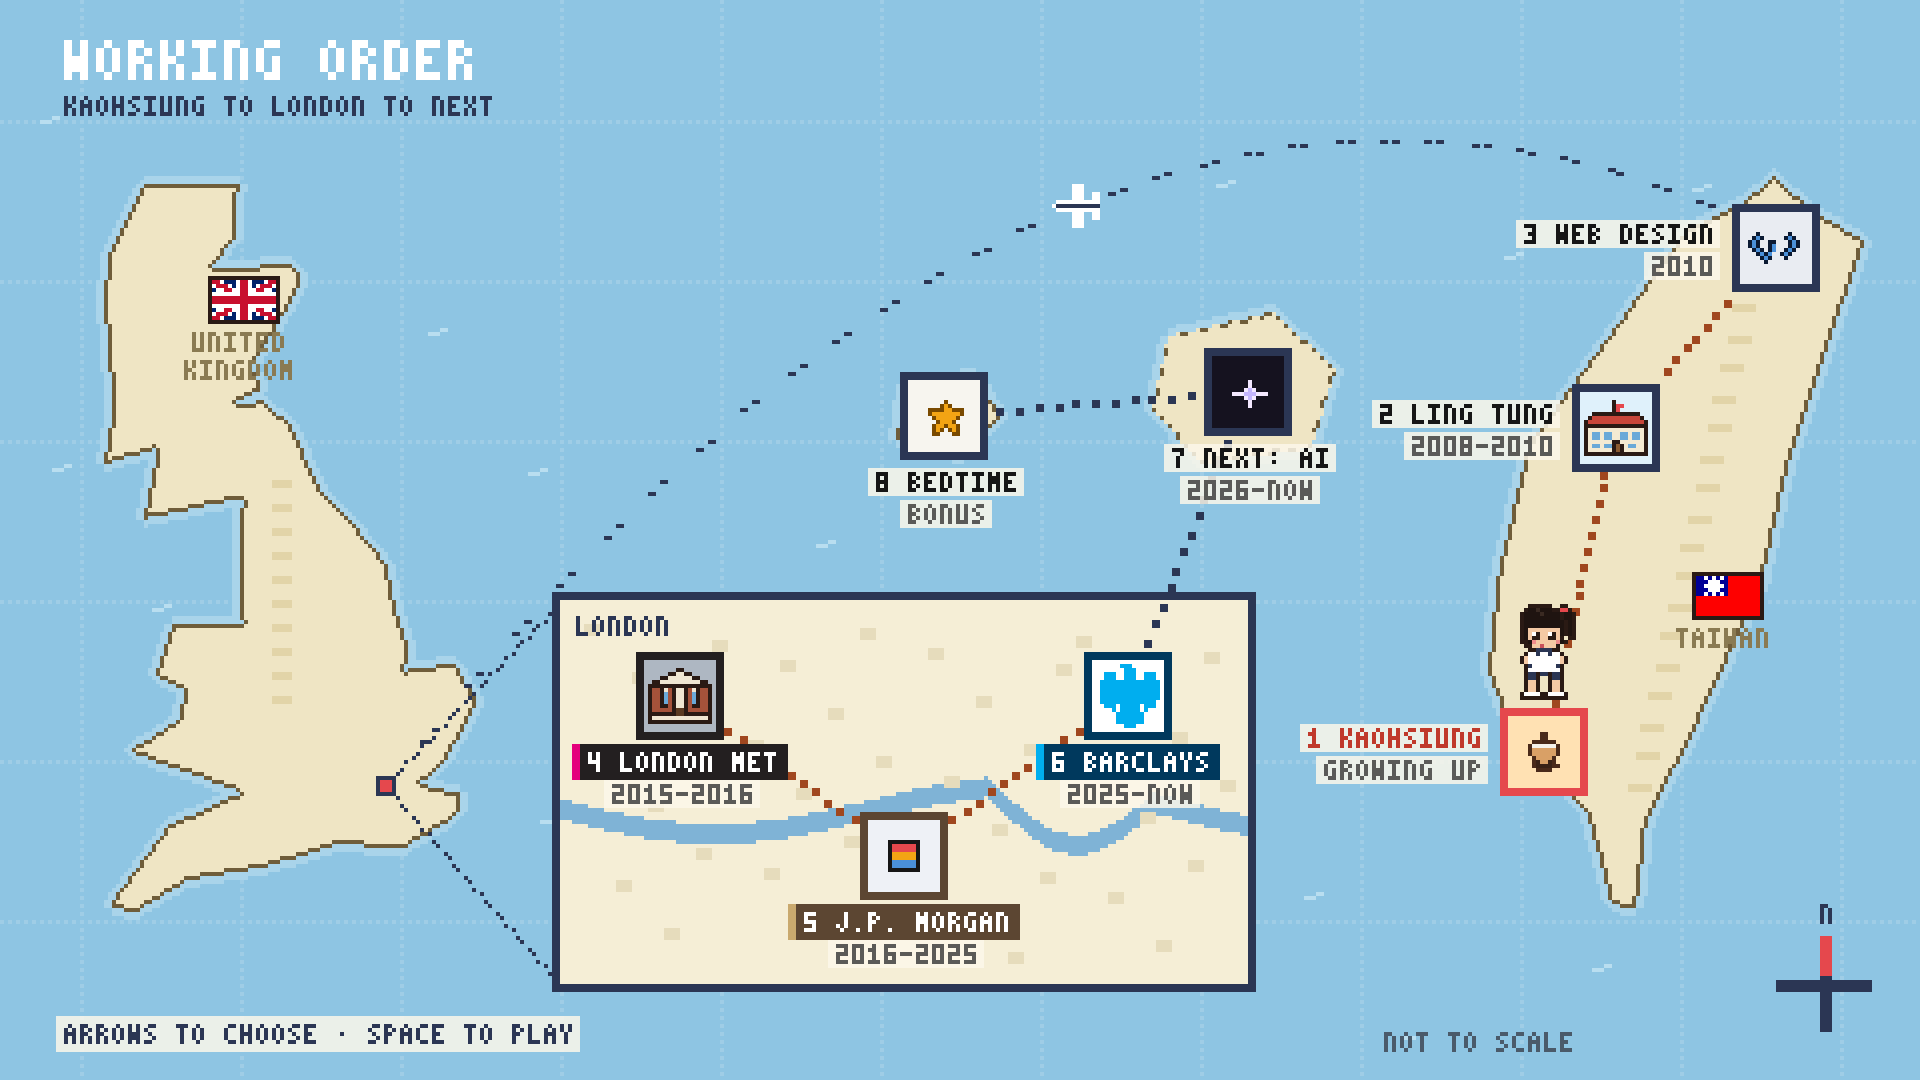
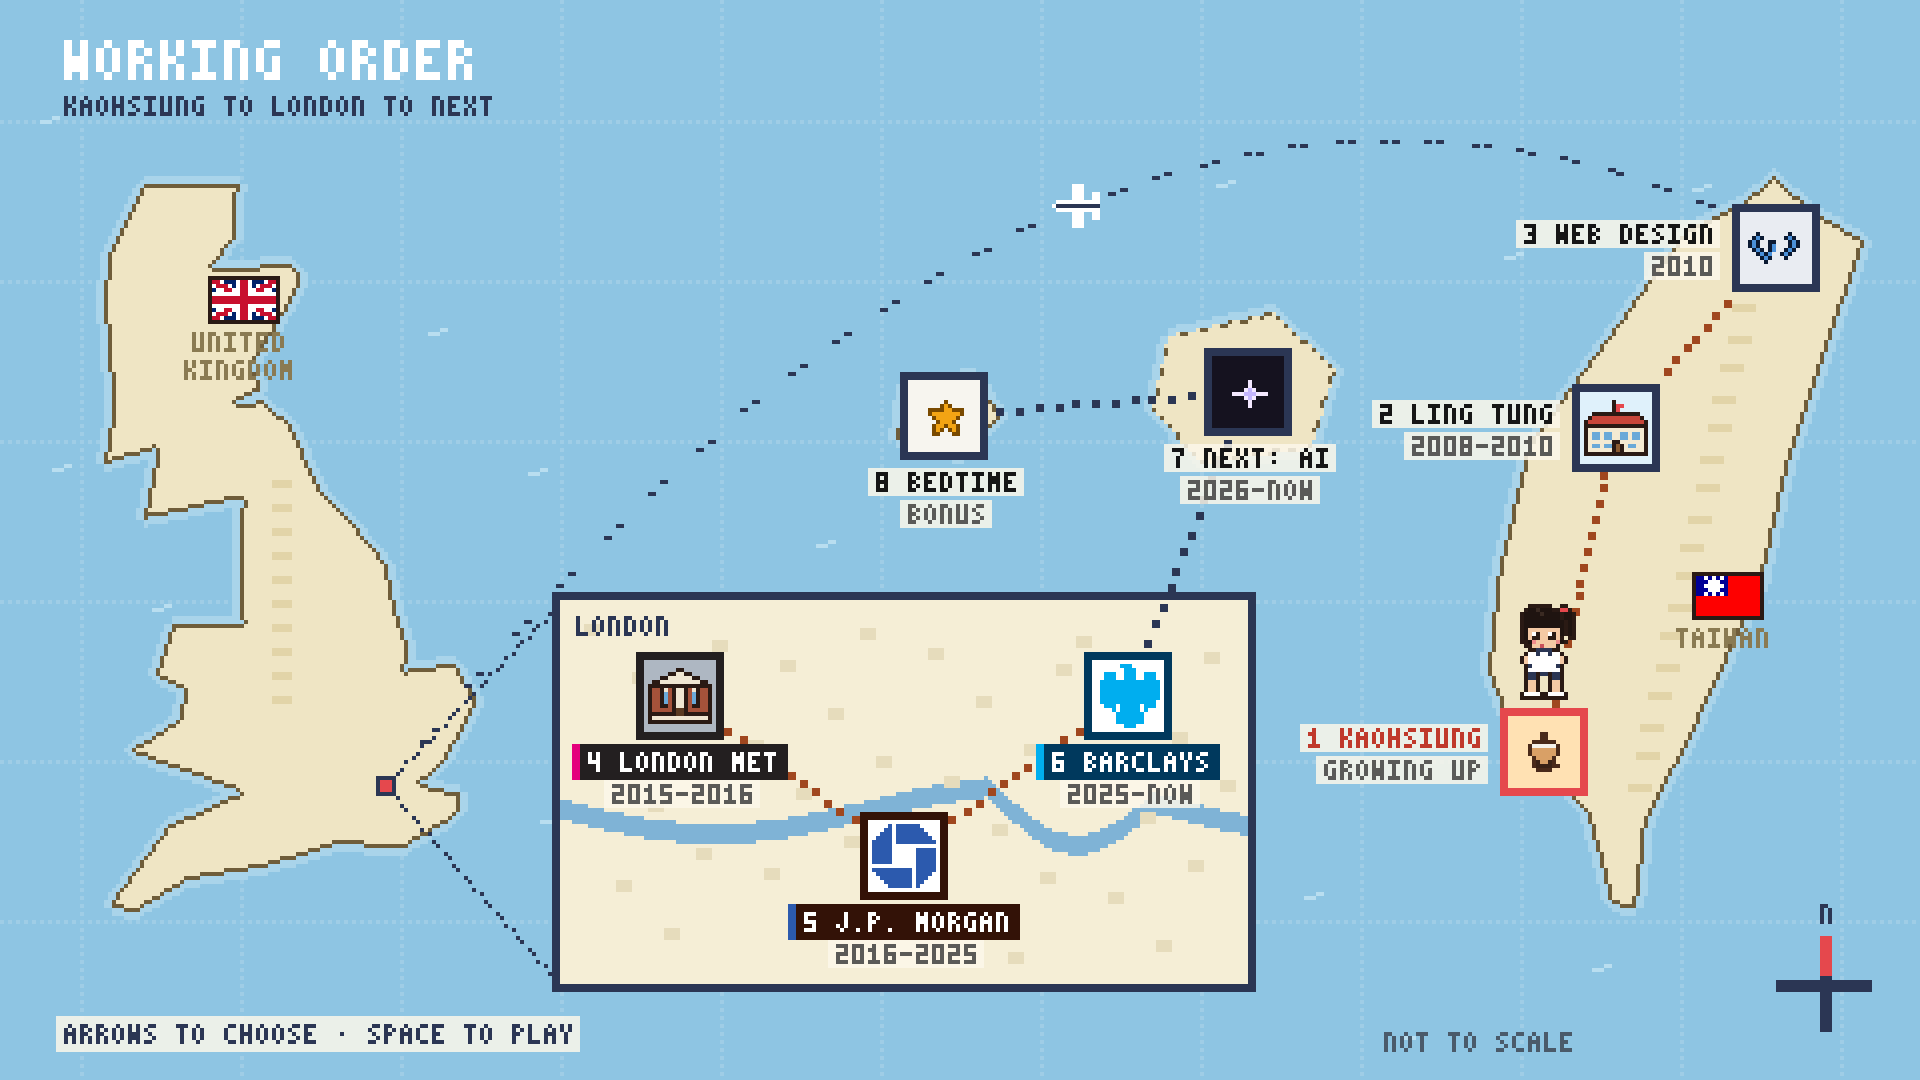
Map: the J.P. Morgan octagon, with badge colours sampled from Shannon's file
Claude-Session: https://claude.ai/code/session_01PiRTfcFy5XVS1nrmkuXjvW

Changed region(s): [[0.4062, 0.7333, 0.5312, 0.8861]]

diff --git a/src/game/map.ts b/src/game/map.ts
@@ -185,7 +185,7 @@ export function flagTaiwan() {
  * colours are close matches, kept here so they are easy to correct. */
 export const BRAND: Record<number, { bg: string; accent: string; fg: string }> = {
   3: { bg: '#231f20', accent: '#e4007c', fg: '#ffffff' }, // London Met
-  4: { bg: '#5c4632', accent: '#c9a96e', fg: '#ffffff' }, // J.P. Morgan
+  4: { bg: '#331207', accent: '#2c5aae', fg: '#ffffff' }, // J.P. Morgan: wordmark brown, octagon blue (sampled from Shannon's file)
   5: { bg: '#00395d', accent: '#00aeef', fg: '#ffffff' }, // Barclays
 };
 
@@ -232,7 +232,31 @@ export const SCHOOL_ICONS: Record<number, () => HTMLCanvasElement> = {
 // to 15×16 (not redrawn, so the shape stays the brand's own). Cyan on white,
 // as the mark appears. Shannon chose to show it; remove this entry to go back
 // to the plain brand-colour tile.
+// J.P. Morgan: the octagon from the logo file Shannon supplied, downsampled to
+// 16×16. At that size its four white seams vanish, so they are put back at
+// 1 px each, where the logo has them (the pinwheel around the square hole).
 export const LOGO_ICONS: Record<number, { icon: () => HTMLCanvasElement; bg: string }> = {
+  4: {
+    bg: '#ffffff',
+    icon: () => sprite([
+      '....b.bbbbbb....',
+      '...bb.bbbbbbb...',
+      '..bbb.bbbbbbbb..',
+      '.bbbb.bbbbbbbbb.',
+      'bbbbb.bbbbbbbbbb',
+      'bbbbb...........',
+      'bbbbb......bbbbb',
+      'bbbbb......bbbbb',
+      'bbbbb......bbbbb',
+      'bbbbb......bbbbb',
+      '...........bbbbb',
+      'bbbbbbbbbb.bbbbb',
+      '.bbbbbbbbb.bbbb.',
+      '..bbbbbbbb.bbb..',
+      '...bbbbbbb.bb...',
+      '....bbbbbb.b....',
+    ], { b: '#2c5aae' }),
+  },
   5: {
     bg: '#ffffff',
     icon: () => sprite([

diff --git a/BUILD.md b/BUILD.md
@@ -212,3 +212,9 @@ How this site was made, kept honest. Shannon writes the entries marked **Shannon
 - **Not redrawn:** the eagle was box-downsampled from her file to 15×16 rather than redrawn, so the shape stays the brand's own.
 - **Easy to remove:** the icon lives in `LOGO_ICONS` in `src/game/map.ts`. Deleting that entry brings back the plain brand-colour tile.
 - **Flagged to Shannon:** Barclays is her current employer and the site is part of a job search, so she should check Barclays' brand and social-media policy before the link goes out.
+
+### PR 15 · The J.P. Morgan octagon (Shannon's request)
+
+- **Octagon icon:** the J.P. Morgan tile shows the octagon from the logo file Shannon sent, blue on white. The wordmark is left off: at 16 px it can't be read, and the badge already names the company.
+- **Seams restored:** downsampling closed the octagon's four white seams, which turned it into a plain ring. I put them back at 1 px each, where the logo has them, so the pinwheel around the square hole still reads.
+- **Exact colours:** the J.P. Morgan badge now uses the wordmark brown and octagon blue sampled from her file, replacing my earlier close match.
